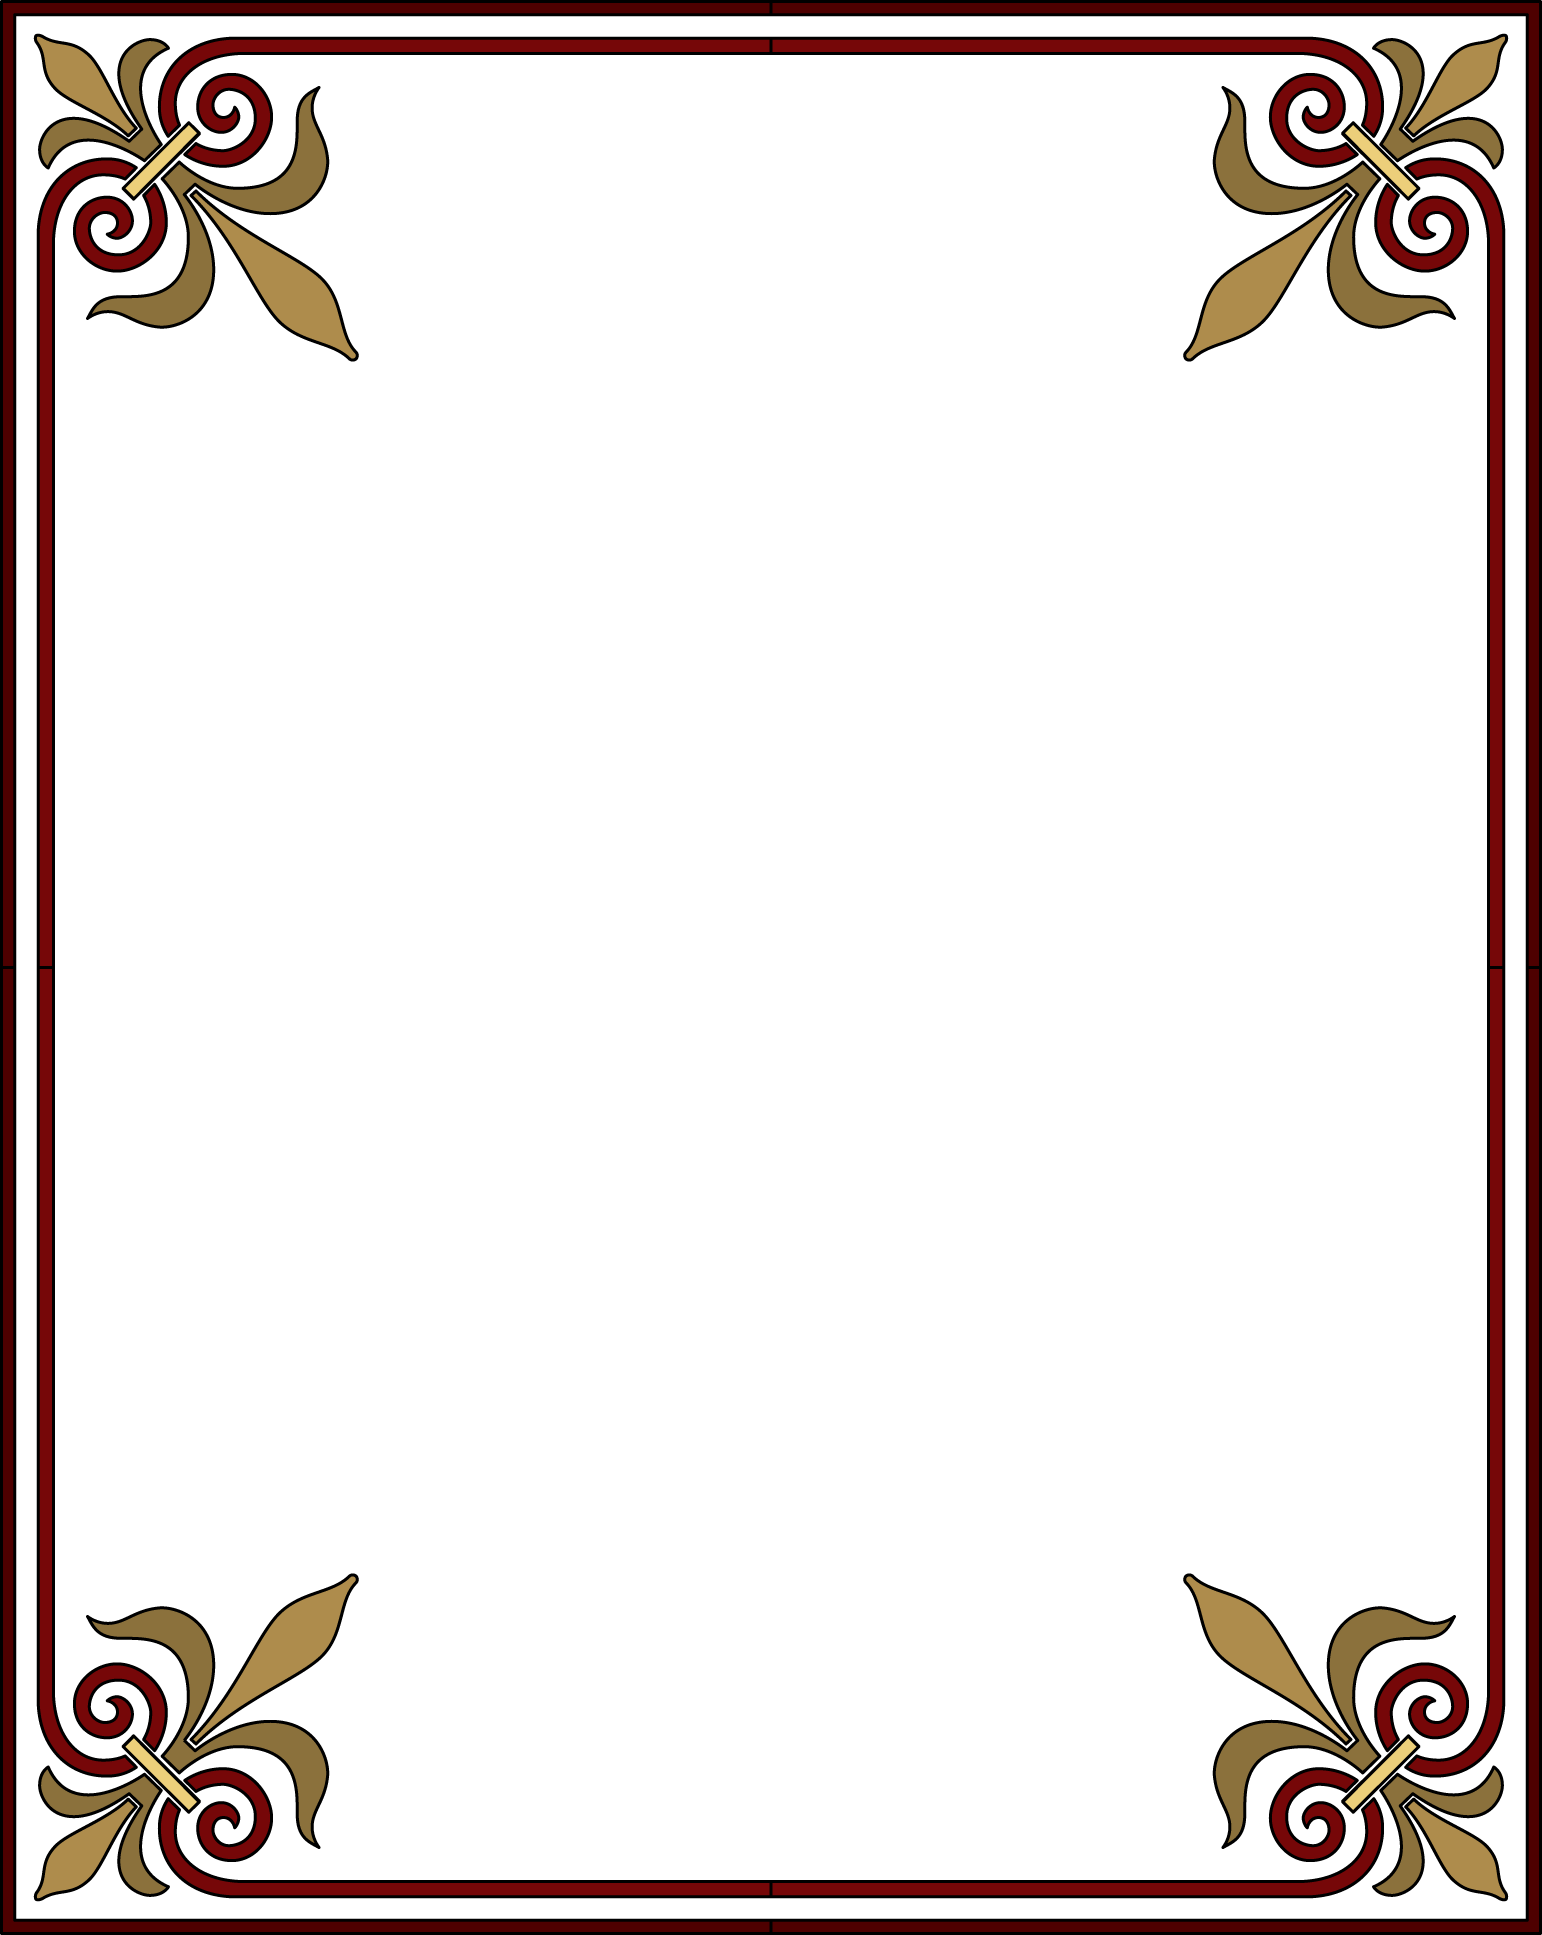
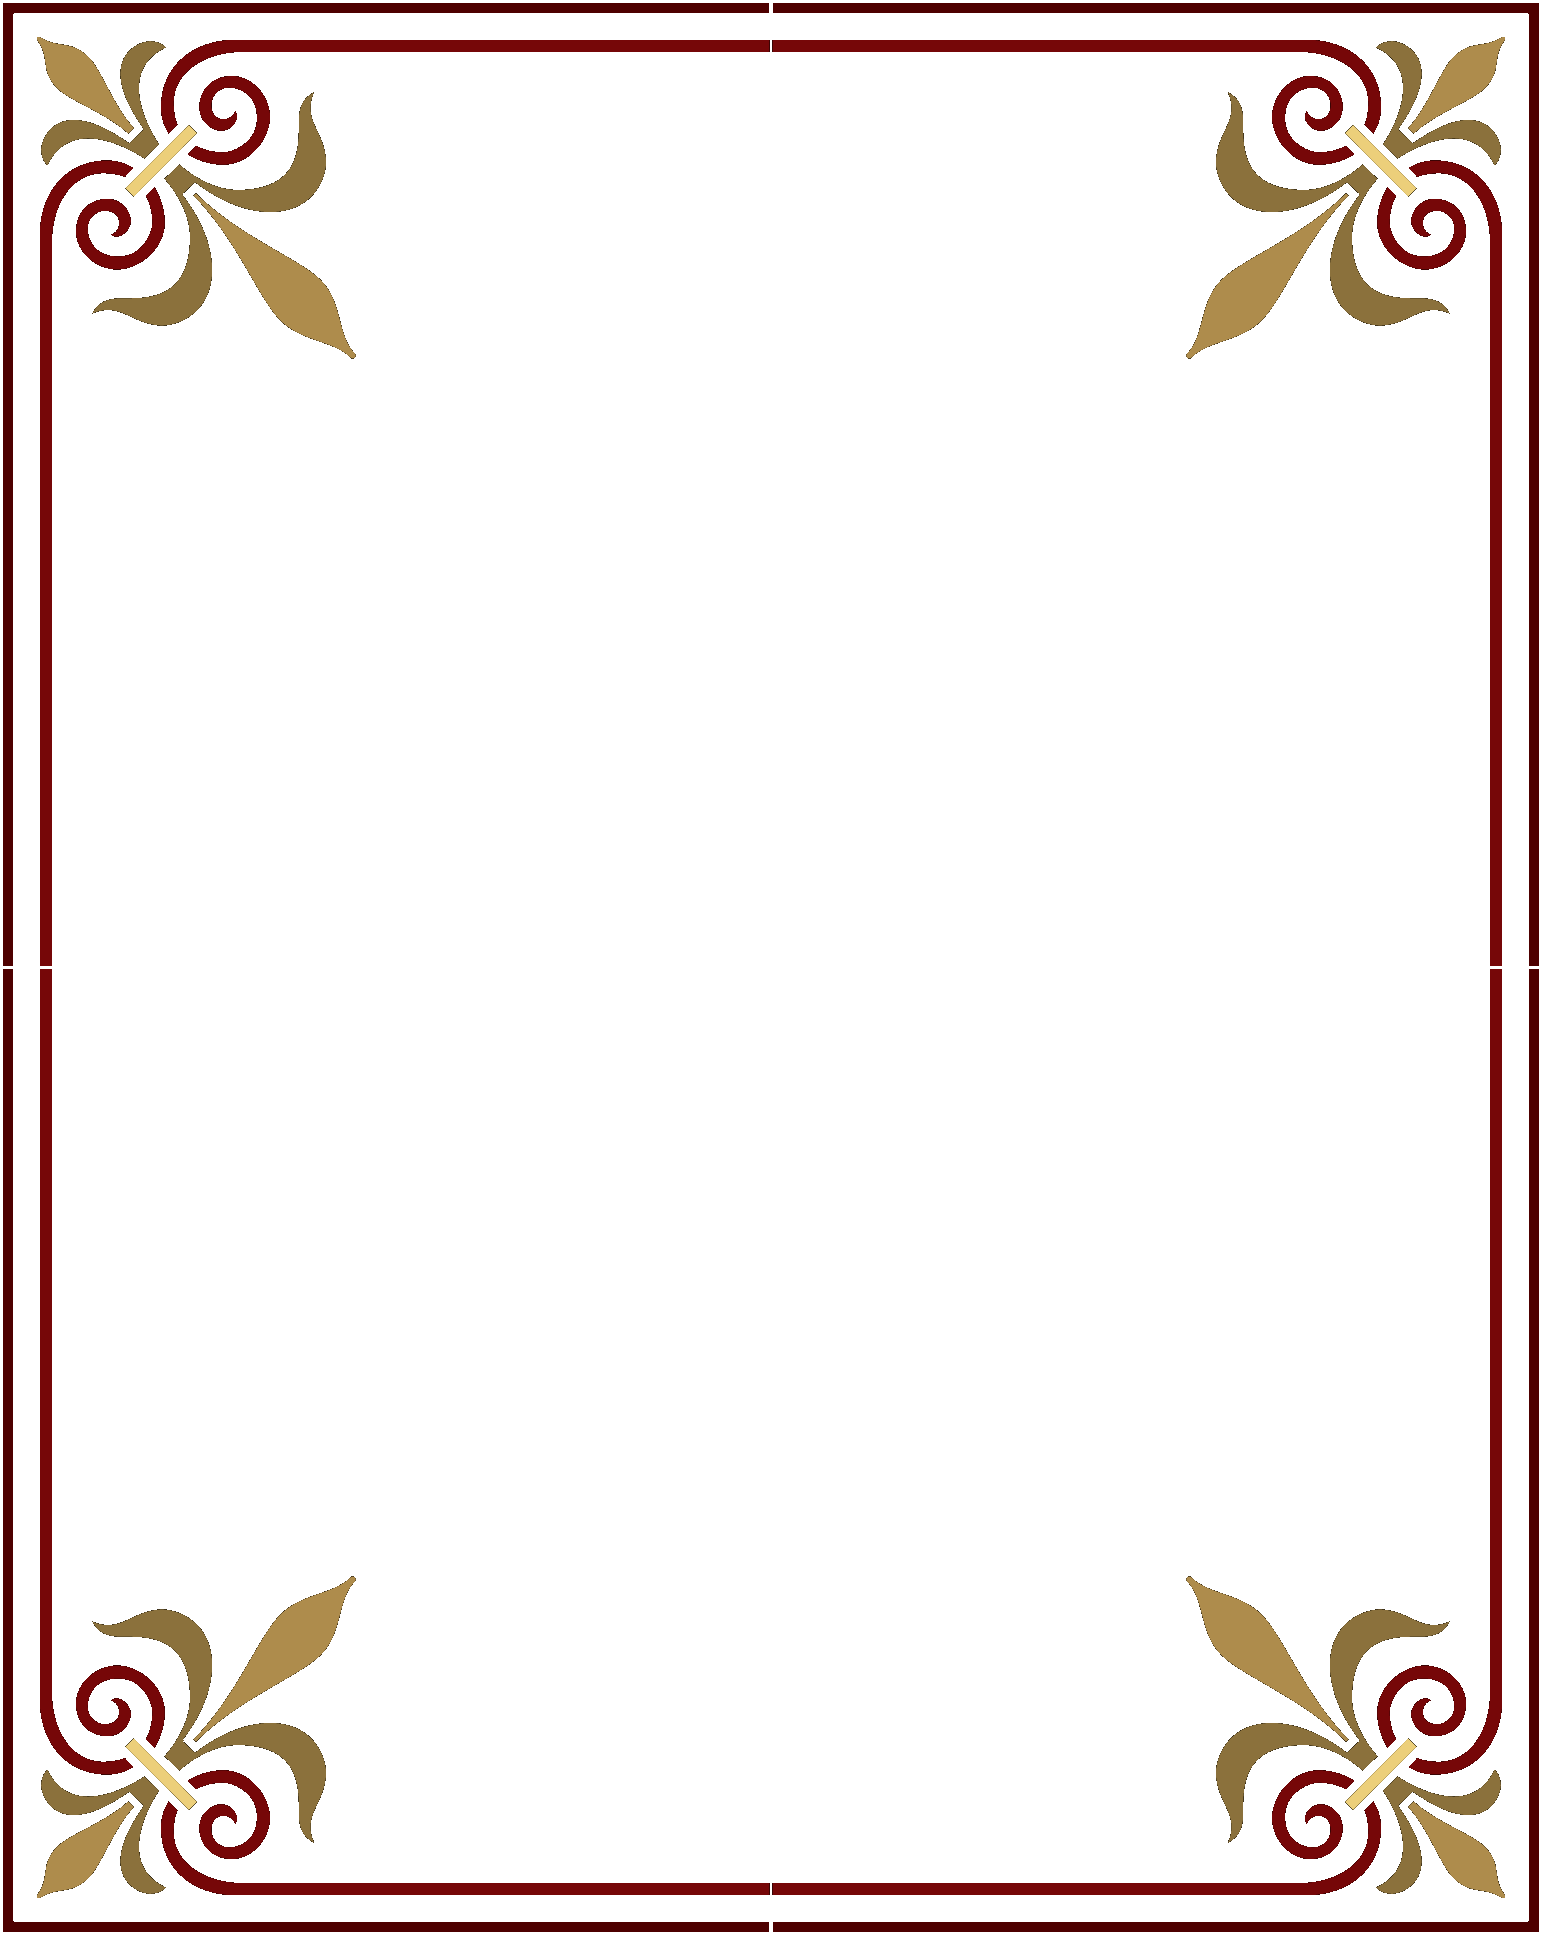
Update Kazakh ornament frame and attribution details
- Revise `ATTRIBUTION.md` to reflect changes in the ornament frame, including the introduction of a new transparent version and its source file.
- Update `KazakhOrnamentFrame.tsx` to remove the mix blend mode from the style for improved rendering.
- Replace the existing `ornament-frame.png` with a new version featuring a transparent background.

Changed region(s): [[0.0, 0.0, 1.0, 1.0]]

diff --git a/src/components/qr-cards/KazakhOrnamentFrame.tsx b/src/components/qr-cards/KazakhOrnamentFrame.tsx
@@ -19,7 +19,7 @@ export default function KazakhOrnamentFrame() {
       src={ORNAMENT_FRAME_SRC}
       alt=""
       className="pointer-events-none absolute inset-0 z-[2] h-full w-full"
-      style={{ objectFit: 'fill', mixBlendMode: 'lighten' }}
+      style={{ objectFit: 'fill' }}
       draggable={false}
       aria-hidden
     />

diff --git a/public/qr-ornaments/kazakh/ATTRIBUTION.md b/public/qr-ornaments/kazakh/ATTRIBUTION.md
@@ -2,6 +2,7 @@
 
 | Файл | Описание |
 |------|----------|
-| `ornament-frame.png` | Декоративная рамка с угловыми орнаментами (бордо и золото на чёрном фоне), загружена заказчиком для проекта |
+| `ornament-frame.png` | Рамка с прозрачным фоном (для белой карточки), из `ornament-frame-source.png` |
+| `ornament-frame-source.png` | Исходник с чёрным фоном (загружен заказчиком) |
 
-Предыдущие вырезки с флага Казахстана (`border-side.png`, `corner.png`, `flag-1992-variant-800.png`) больше не используются в интерфейсе.
+Пересборка прозрачной версии: `powershell -File scripts/prepare-ornament-frame.ps1`
